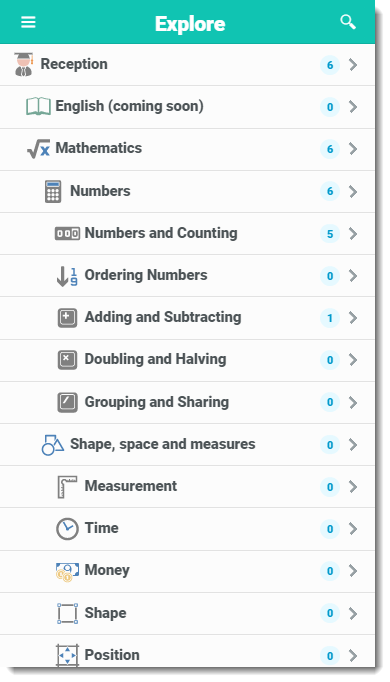
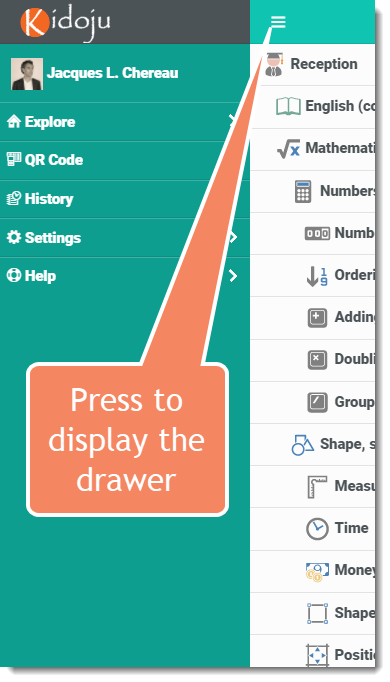
Updates assets/Mobile_Explore_And_Search_01.png
Auto commit by GitBook Editor

diff --git a/mobile-guide/basic-guide/explore-and-search.md b/mobile-guide/basic-guide/explore-and-search.md
@@ -1,6 +1,16 @@
 ### Explore and search
 
+At any time, you can press the three horizontal bars in the header to display the drawer menu.
+
 ![](/assets/Mobile_Explore_And_Search_01.png)
 
+The first option displays the Explorer with a hierarchical list of categories \(aka subjects\):
+
 ![](/assets/Mobile_Explore_And_Search_02.png)
+
+Pressing any category or the magnifier in the header displays a list of search results with a search box at the top.
+
+![](/assets/Mobile_Explore_And_Search_03.png)
+
+The search results are colored as follows:
 
